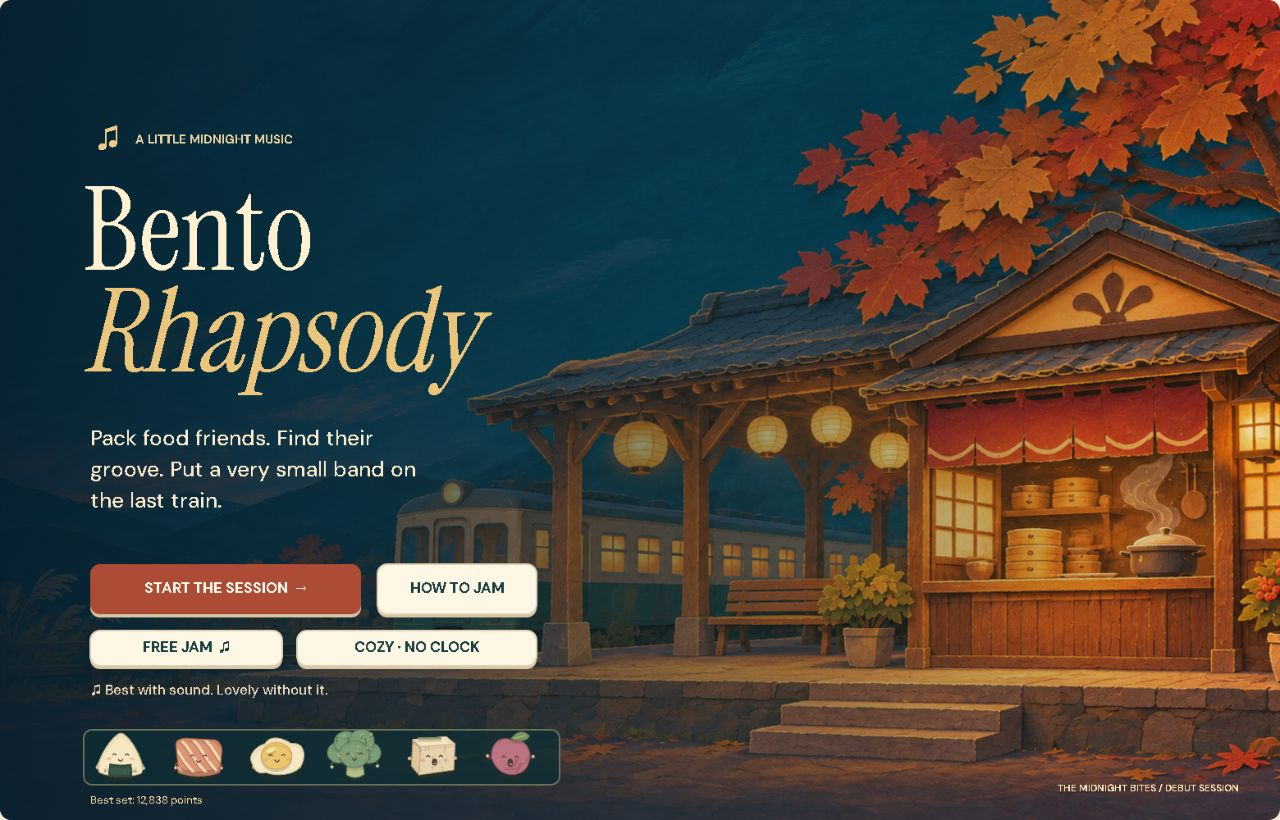
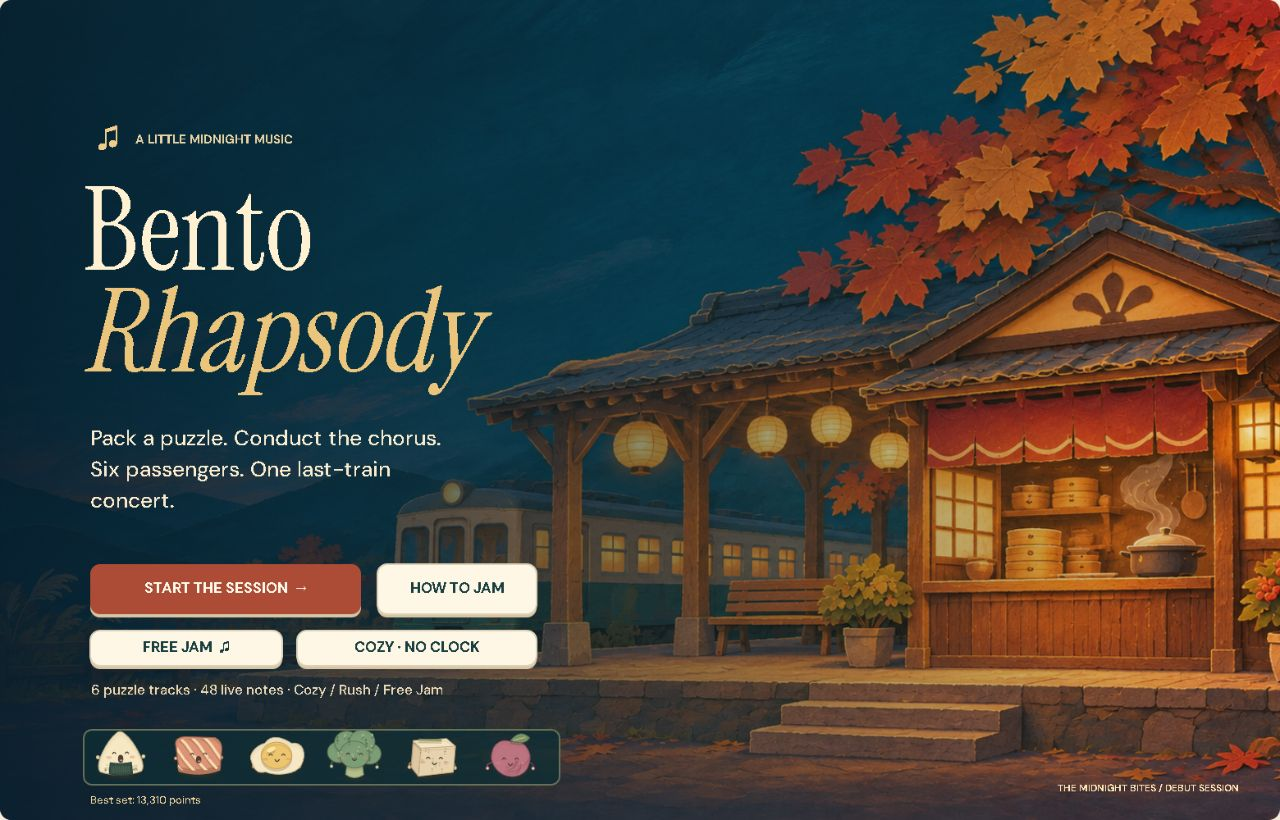
Make each bento a playable rhythm concert with precision and combos

diff --git a/game/game.js b/game/game.js
@@ -62,6 +62,7 @@ function musicStep(plan){
 }
 choir.onStep(musicStep);
 function updateMusic(dt){
+  updateConcert(dt);
   if(!state.paused&&!state.help){if(state.solo){state.solo.life-=dt;if(state.solo.life<=0)state.solo=null;}if(state.reaction){state.reaction.life-=dt;if(state.reaction.life<=0)state.reaction=null;}}
   for(const [id,p]of Object.entries(music.pulses)){p.life-=dt*3;if(p.life<=0)delete music.pulses[id];}
   music.customer=Math.max(0,music.customer-dt*3);
@@ -96,16 +97,16 @@ function evaluate(pieces=state.pieces){
 }
 function burst(x,y,color,n=12){for(let i=0;i<n;i++)particles.push({x,y,vx:Math.cos(i/n*Math.PI*2)*70,vy:Math.sin(i/n*Math.PI*2)*70-35,life:1,color,born:performance.now()});}
 function notify(msg,good=true){toast={text:msg,life:3,good};tone(good?660:170,.14);}
-function remember(){state.history.push(JSON.stringify({pieces:state.pieces,stock:state.stock}));if(state.history.length>35)state.history.shift();}
-function undo(){const prev=state.history.pop();if(prev){Object.assign(state,JSON.parse(prev));state.active=null;saveJam();tone(330);}}
-function startLevel(){const carried=state.mode==='story'&&state.level===5?state.pieces.map(p=>({...p})):[];state.pieces=[];state.stock=Object.fromEntries(foods.map(f=>[f.id,rehearsal().menu.includes(f.id)?3:0]));state.active=null;state.rotation=0;state.history=[];state.solo=null;state.reaction=null;state.timer=recipes[state.level].time;state.screen='play';state.paused=false;state.help=false;resetMusic();if(state.mode==='story'){if(carried.length)for(const p of carried)seedPiece(p.type,p.x,p.y,p.rot);else for(const [type,x,y,rot]of rehearsals[state.level].seed)seedPiece(type,x,y,rot);}}
+function remember(){if(concert?.done)concert=null;state.history.push(JSON.stringify({pieces:state.pieces,stock:state.stock}));if(state.history.length>35)state.history.shift();}
+function undo(){const prev=state.history.pop();if(prev){concert=null;Object.assign(state,JSON.parse(prev));state.active=null;saveJam();tone(330);}}
+function startLevel(){concert=null;const carried=state.mode==='story'&&state.level===5?state.pieces.map(p=>({...p})):[];state.pieces=[];state.stock=Object.fromEntries(foods.map(f=>[f.id,rehearsal().menu.includes(f.id)?3:0]));state.active=null;state.rotation=0;state.history=[];state.solo=null;state.reaction=null;state.timer=recipes[state.level].time;state.screen='play';state.paused=false;state.help=false;resetMusic();if(state.mode==='story'){if(carried.length)for(const p of carried)seedPiece(p.type,p.x,p.y,p.rot);else for(const [type,x,y,rot]of rehearsals[state.level].seed)seedPiece(type,x,y,rot);}}
 function startGame(){state.mode='story';state.tempo=96;choir.setTempo(96);state.level=0;state.score=0;state.lives=3;state.combo=0;state.results=[];state.nextId=1;startLevel();}
 function deliver(){
   if(state.screen!=='play'||state.paused||state.help||state.mode==='jam')return;
   const e=evaluate();if(!e.ready){notify('Check the order, the rival voices and the singing beats.',false);return;}
-  const grade=rating(e),earned=500+e.area*20+e.bonds*110+e.rhythm*100+(state.rush?Math.floor(state.timer)*2:0)+state.combo*100+(grade.stars-1)*250;
+  const grade=rating(e),earned=(concert?.done?concert.bonus:0)+500+e.area*20+e.bonds*110+e.rhythm*100+(state.rush?Math.floor(state.timer)*2:0)+state.combo*100+(grade.stars-1)*250;
   const pattern=currentArrangement().map(p=>({...p,grumpy:false,solo:false}));
-  state.score+=earned;state.combo++;state.results.push({name:recipes[state.level].name,earned,stars:grade.stars,bonds:e.bonds,area:e.area,rhythm:e.rhythm,pattern});state.active=null;state.screen=state.level===5?'encore':'served';music.encore=0;resetMusic();choir.sfx('serve');burst(770,470,'#edb14b',35);
+  state.score+=earned;state.combo++;state.results.push({name:recipes[state.level].name,earned,performance:concert?.done?{hits:concert.hits,perfect:concert.perfect,bonus:concert.bonus,medal:concert.medal}:null,stars:grade.stars,bonds:e.bonds,area:e.area,rhythm:e.rhythm,pattern});state.active=null;state.screen=state.level===5?'encore':'served';music.encore=0;resetMusic();choir.sfx('serve');burst(770,470,'#edb14b',35);
   if(state.score>best){best=state.score;try{localStorage.setItem('bento-rhapsody-best',best);}catch{}}
 }
 function timeout(){state.lives--;state.combo=0;state.active=null;state.screen=state.lives<=0?'gameover':'missed';choir.hush();tone(150,.35);}
@@ -141,7 +142,7 @@ function resultOverlay(){
     foods.forEach((f,i)=>{const pulse=Math.max(0,...Object.values(music.pulses).filter(p=>p.type===f.id).map(p=>p.life));ingredient(f.id,555+i*90,375,75,1,i,true,pulse);});
     text('♪',605,475,42,palette.coral,'center');ctx.save();ctx.translate(780,462);ctx.scale(.56,.56);customer(0,0,r.mood);ctx.restore();text('♫',950,475,42,palette.green,'center');
     text(`${r.customer} joins your chorus.`,780,546,20,palette.green,'center',800);wrap(`“${r.memory}”`,486,589,600,21,palette.ink,26);
-    const last=state.results.at(-1);text(`${'★'.repeat(last.stars||1)}${'☆'.repeat(3-(last.stars||1))}   +${last.earned.toLocaleString('en-US')} points`,780,653,21,'#987037','center',700);
+    const last=state.results.at(-1);if(last.performance)text(`${last.performance.medal} · ${last.performance.hits}/8 notes · ${last.performance.perfect} perfect`,780,682,13,palette.green,'center',700);text(`${'★'.repeat(last.stars||1)}${'☆'.repeat(3-(last.stars||1))}   +${last.earned.toLocaleString('en-US')} points`,780,653,21,'#987037','center',700);
     button('NEXT LISTENER  →',550,702,460,57,()=>{state.level++;startLevel();},'coral');
   }else{ingredient('rice',780,405,145,-1,0);text(state.lives>0?'Departure came before the chorus was ready.':'Three missed orders. The kitchen needs a rest.',780,543,21,palette.muted,'center');text(`Your set: ${state.score.toLocaleString('en-US')} points`,780,600,28,palette.ink,'center',800);button(state.lives>0?'TRY THIS TRACK AGAIN':'START A NEW SET',550,702,460,57,()=>state.lives>0?startLevel():startGame(),'coral');}
   button('Back to the title',630,787,300,38,()=>{state.screen='title';choir.hush();},'light');
@@ -171,7 +172,7 @@ function encoreScreen(){
   face(engine+93,555,138,1,7,music.customer);text('♪',engine+155,370-Math.sin(elapsed*4)*10,43,palette.coral,'center');
   for(let i=0;i<8;i++)text(i%2?'♫':'♪',95+i*180,390-Math.sin(elapsed*2+i)*25,24,'#b29564','center');
   ctx.restore();ctx.fillStyle='#82948b';ctx.fillRect(0,713,W,5);ctx.fillRect(0,730,W,3);
-  text('Every lunchbox found its voice. Every passenger joined in.',780,779,23,palette.ink,'center',700);
+  text(`TOUR COMPLETE · ${state.score.toLocaleString('en-US')} POINTS · ${state.results.reduce((n,r)=>n+(r.performance?.hits||0),0)} / 48 LIVE NOTES`,780,779,23,palette.ink,'center',700);
   beatStrip(553,822,454,new Set([0,1,2,3,4]),29);
   button('PLAY ANOTHER SET',396,890,355,57,startGame,'coral');button('REPLAY THE ENCORE',782,890,355,57,()=>{music.encore=0;resetMusic();},'light');
   text(`6 / 6 songs delivered  ·  ${state.results.reduce((n,r)=>n+(r.stars||1),0)} / 18 encore tickets  ·  Your own arrangements are playing`,780,980,16,palette.muted,'center');
@@ -181,24 +182,25 @@ function guideOverlay(){
   headline('How to conduct your lunch',780,269,48,palette.ink,'center');text('A puzzle you can hear. A song you can rearrange.',780,317,21,palette.muted,'center');
   const rows=[['1  PACK','Choose from the left. Click or drag into the box. R rotates, Z undoes, Delete removes. Cozy has no clock; Rush does. Free Jam saves your own song.'],['2  PAIR','Edges count, corners do not. Friends unlock singing; rivals grumble. Clear the set list to serve. Get every food type singing for a bonus ticket.'],['3  PLAY','Happy players on golden stages earn another ticket. Move up or down for new notes. Press Space to take a solo. Free Jam also lets you change the tempo.']];
   rows.forEach(([title,body],i)=>{const y=386+i*132;rect(365,y-25,830,116,16,i%2?'#f1e7cf':'#f8edd5');text(title,390,y+7,19,palette.coral,'left',800);wrap(body,590,y-2,570,20,palette.ink,27);});
-  text('Match the set list, then SERVE THE SONG. Your six songs become the train\'s final concert.',780,810,17,palette.green,'center',700);
+  text('Match the set list, then PLAY THE CHORUS with A/S/D. Your six songs become the train\'s final concert.',780,810,17,palette.green,'center',700);
   text('Sound is optional. Mouths, syllables and beat lights show the whole score.',780,844,18,palette.muted,'center');
   button('LET\'S JAM  →',580,878,400,38,toggleHelp,'coral');
 }
 function render(){
-  const status=evaluate();canvas.setAttribute('aria-label',`Bento Rhapsody. ${state.mode}. ${state.help?'guide':state.paused?'paused':state.screen}. Order ${state.level+1} of 6. ${status.area} spaces, ${status.bonds} happy duets, ${status.conflicts} rivals, ${status.rhythm} of ${recipes[state.level].beats} singing beats. ${status.ready?'Ready to serve.':''} ${state.sound?'Sound on.':'Sound off.'}`);
+  const status=evaluate();canvas.setAttribute('aria-label',`Bento Rhapsody. ${state.mode}. ${state.help?'guide':state.paused?'paused':state.screen}. Order ${state.level+1} of 6. ${status.area} spaces, ${status.bonds} happy duets, ${status.conflicts} rivals, ${status.rhythm} of ${recipes[state.level].beats} singing beats. ${status.ready?'Ready to serve.':''} ${concert?.active?'Live performance: A/S/D, '+concert.hits+' of 8 notes.':concert?.done?'Performance complete: '+concert.hits+' of 8 notes.':''} ${state.sound?'Sound on.':'Sound off.'}`);
   buttons=[];background();if(state.screen==='title')titleScreen();else if(state.screen==='encore')encoreScreen();else{gameplay();if(['served','missed','gameover'].includes(state.screen))resultOverlay();}
   for(const p of particles){const age=(performance.now()-p.born)/1000;if(age>.8)continue;ctx.globalAlpha=1-age/.8;ctx.fillStyle=p.color;ctx.beginPath();ctx.arc(p.x,p.y,4,0,7);ctx.fill();}ctx.globalAlpha=1;
   if(toast){rect(440,184,680,48,14,toast.good?'#dce9d5':'#f4d0bb');text(toast.text,780,208,18,palette.ink,'center',700);}
   if(state.paused){buttons=[];ctx.fillStyle='#233d40ee';ctx.fillRect(0,173,W,827);rect(500,370,560,260,25,palette.paper);text('A little intermission.',780,433,34,palette.ink,'center',800);button('BACK TO THE JAM',620,500,320,58,()=>setPause(false),'coral');}
   if(state.help)guideOverlay();
+  if(concert?.active&&!state.paused&&!state.help)drawConcert();
 }
 function pos(event){const r=canvas.getBoundingClientRect();return{x:(event.clientX-r.left)*W/r.width,y:(event.clientY-r.top)*H/r.height};}
 canvas.addEventListener('pointerdown',event=>{
   if(event.button===2)return;
   const downPosition=pos(event);pointer={...downPosition,down:true,startX:downPosition.x,startY:downPosition.y};canvas.focus();choir.unlock();canvas.setPointerCapture?.(event.pointerId);
   for(const b of [...buttons].reverse()){if(b.enabled&&pointer.x>=b.x&&pointer.x<=b.x+b.w&&pointer.y>=b.y&&pointer.y<=b.y+b.h){b.action();render();return;}}
-  if(state.screen!=='play'||state.paused||state.help)return;
+  if(state.screen!=='play'||state.paused||state.help||concert?.active)return;
   for(let i=0;i<foods.length;i++){const y=rack.y+i*(rack.h+rack.gap);if(pointer.x>=rack.x&&pointer.x<rack.x+rack.w&&pointer.y>=y&&pointer.y<=y+rack.h){const f=foods[i];if(state.stock[f.id]>0){state.active={type:f.id};state.rotation=0;choir.sing(f.id,choir.pitch(f.id,2),{volume:.16});}render();return;}}
   const x=Math.floor((pointer.x-board.x)/board.cell),y=Math.floor((pointer.y-board.y)/board.cell);
   if(x>=0&&x<5&&y>=0&&y<5){const p=evaluate().grid[y][x];if(state.active){place(x-(state.active.grabX||0),y-(state.active.grabY||0));}else if(p){state.active={type:p.type,id:p.id,grabX:x-p.x,grabY:y-p.y};state.rotation=p.rot;tone(380);}}
@@ -211,12 +213,13 @@ function place(x,y){const a=state.active;if(!a||!valid(a.type,x,y,state.rotation
   render();
 }
 canvas.addEventListener('pointermove',event=>{Object.assign(pointer,pos(event));});
-canvas.addEventListener('pointerup',event=>{const p=pos(event);const moved=Math.hypot(p.x-pointer.startX,p.y-pointer.startY)>8;if(state.screen==='play'&&!state.paused&&!state.help&&state.active&&pointer.down&&moved){const x=Math.floor((p.x-board.x)/board.cell)-(state.active.grabX||0),y=Math.floor((p.y-board.y)/board.cell)-(state.active.grabY||0);if(x>=0&&x<5&&y>=0&&y<5)place(x,y);}pointer.down=false;});
+canvas.addEventListener('pointerup',event=>{const p=pos(event);const moved=Math.hypot(p.x-pointer.startX,p.y-pointer.startY)>8;if(state.screen==='play'&&!concert?.active&&!state.paused&&!state.help&&state.active&&pointer.down&&moved){const x=Math.floor((p.x-board.x)/board.cell)-(state.active.grabX||0),y=Math.floor((p.y-board.y)/board.cell)-(state.active.grabY||0);if(x>=0&&x<5&&y>=0&&y<5)place(x,y);}pointer.down=false;});
 canvas.addEventListener('pointercancel',()=>{pointer.down=false;});
 canvas.addEventListener('contextmenu',event=>{event.preventDefault();if(state.active&&!state.help&&!state.paused)state.rotation=(state.rotation+1)%4;});
 window.addEventListener('keydown',event=>{
   if(['r','R','z','Z','h','H','Escape','Enter','Delete','Backspace',' '].includes(event.key))event.preventDefault();
   if(event.repeat)return;choir.unlock();
+  if(concert?.active){event.preventDefault();if(event.key==='Escape'){setPause(!state.paused);}else concertHit(event.key);render();return;}
   if(event.key.toLowerCase()==='h'){toggleHelp();render();return;}
   if(event.key==='Escape'){if(state.help)toggleHelp();else if(state.active)state.active=null;else if(state.screen==='play')setPause(!state.paused);render();return;}
   if(state.help)return;
@@ -224,12 +227,12 @@ window.addEventListener('keydown',event=>{
   if(state.screen!=='play'||state.paused)return;
   if(event.key===' '){spotlight();render();return;}
   if(event.key.toLowerCase()==='r'&&state.active){state.rotation=(state.rotation+1)%4;state.active.grabX=0;state.active.grabY=0;tone(420);}
-  if(event.key.toLowerCase()==='z')undo();if(event.key==='Enter')deliver();if(event.key==='Delete'||event.key==='Backspace')removeSelected();
+  if(event.key.toLowerCase()==='z')undo();if(event.key==='Enter')performOrServe();if(event.key==='Delete'||event.key==='Backspace')removeSelected();
   render();
 });
 let last=performance.now();
 function frame(now){const dt=Math.min((now-last)/1000,.05);last=now;elapsed+=dt;
-  if(state.screen==='play'&&state.mode==='story'&&state.rush&&!state.paused&&!state.help){state.timer-=dt;if(state.timer<=0){state.timer=0;timeout();}}
+  if(state.screen==='play'&&!concert?.active&&state.mode==='story'&&state.rush&&!state.paused&&!state.help){state.timer-=dt;if(state.timer<=0){state.timer=0;timeout();}}
   particles.forEach(p=>{p.life-=dt*1.3;p.x+=p.vx*dt;p.y+=p.vy*dt;p.vy+=50*dt;});particles=particles.filter(p=>p.life>0);if(toast){toast.life-=dt;if(toast.life<0)toast=null;}
   render();requestAnimationFrame(frame);
 }

diff --git a/game/conductor.js b/game/conductor.js
@@ -1,0 +1,69 @@
+'use strict';
+// The packed arrangement becomes an eight-note call-and-response performance.
+let concert=null;
+const stageKeys=['a','s','d'];
+const voiceLane=type=>['rice','salmon'].includes(type)?0:['egg','broccoli'].includes(type)?1:2;
+function performOrServe(){
+  if(state.screen!=='play'||state.paused||state.help||!evaluate().ready)return;
+  if(concert?.done){deliver();return;}
+  const singers=currentArrangement().filter(p=>p.singing).sort((a,b)=>a.x-b.x||a.y-b.y);
+  if(!singers.length)return;
+  const beat=60/choir.bpm;
+  concert={active:true,done:false,time:0,beat,notes:Array.from({length:8},(_,i)=>{const p=singers[i%singers.length];return {at:beat*(3+i),lane:voiceLane(p.type),type:p.type,row:p.y,hit:false,miss:false};}),hits:0,perfect:0,combo:0,bestCombo:0,feedback:'Listen to the count-in. Then answer!',flash:0};
+  state.active=null;state.solo=null;resetMusic();
+}
+function concertHit(key){
+  if(!concert?.active||state.paused||state.help)return;
+  const lane=stageKeys.indexOf(key.toLowerCase());if(lane<0)return;
+  const window=state.rush?.18:.25;
+  const note=concert.notes.filter(n=>!n.hit&&!n.miss&&n.lane===lane).sort((a,b)=>Math.abs(a.at-concert.time)-Math.abs(b.at-concert.time))[0];
+  concert.flash=.22;
+  if(note&&Math.abs(note.at-concert.time)<=window){
+    const perfect=Math.abs(note.at-concert.time)<=.11;note.hit=true;concert.hits++;concert.perfect+=Number(perfect);concert.combo++;concert.bestCombo=Math.max(concert.bestCombo,concert.combo);concert.feedback=perfect?'PERFECT!':'IN THE GROOVE';
+    state.solo={type:note.type,life:.45};choir.sing(note.type,choir.pitch(note.type,note.row),{duration:.28,volume:.19});burst(530,440+lane*104,byFood[note.type].color,12);
+  }else{concert.combo=0;concert.feedback='Listen, then answer on the ring.';choir.sfx('rotate');}
+}
+function updateConcert(dt){
+  if(!concert?.active||state.paused||state.help)return;
+  concert.time+=dt;concert.flash=Math.max(0,concert.flash-dt);
+  for(const n of concert.notes)if(!n.called&&concert.time>=n.at-concert.beat){n.called=true;choir.sing(n.type,choir.pitch(n.type,n.row),{duration:.18,volume:.09});}
+  for(const n of concert.notes)if(!n.hit&&!n.miss&&concert.time>n.at+.25){n.miss=true;concert.combo=0;concert.feedback='Keep going. The next note is yours.';}
+  if(concert.time>concert.notes.at(-1).at+.6){
+    concert.active=false;concert.done=true;concert.bonus=concert.hits*100+concert.perfect*75+concert.bestCombo*25;
+    concert.medal=concert.hits===8?'STANDING OVATION':concert.hits>=5?'IN THE GROOVE':'FIRST REHEARSAL';
+    notify(`${concert.medal} · ${concert.hits}/8 notes · +${concert.bonus} performance bonus`);
+  }
+}
+function drawConcert(){
+  if(!concert?.active)return;
+  buttons=[];ctx.fillStyle='#09272eea';ctx.fillRect(20,240,1520,738);rect(268,270,1024,662,22,'#103d43','#c9aa68');
+  text('PACK IT. HEAR IT. PLAY IT.',780,309,14,'#e6c37d','center',800);headline('Conduct your edible chorus',780,357,51,'#fff0cb','center');
+  text('Your food placement wrote these notes. Answer as each note reaches the ring.',780,397,17,'#cbd8c2','center');
+  const names=['BASS & BRASS','PIANO & BRUSHES','GUITAR & VIBES'];
+  for(let lane=0;lane<3;lane++){
+    const y=468+lane*104;rect(310,y-37,940,78,12,lane%2?'#20525a':'#17464e');
+    text(stageKeys[lane].toUpperCase(),352,y,30,'#ffe7a5','center',800);text(names[lane],408,y-23,11,'#c0d0bf','left',700);
+    ctx.strokeStyle='#96b5a15c';ctx.lineWidth=2;ctx.beginPath();ctx.moveTo(450,y);ctx.lineTo(1220,y);ctx.stroke();
+    ctx.strokeStyle=concert.flash?'#fff0a7':'#edc37b';ctx.lineWidth=4;ctx.beginPath();ctx.arc(530,y,29,0,Math.PI*2);ctx.stroke();
+    button(stageKeys[lane].toUpperCase()+' · TAP',310,y+17,104,24,()=>concertHit(stageKeys[lane]),'light');
+    ctx.save();ctx.beginPath();ctx.rect(451,y-35,770,70);ctx.clip();
+    for(const n of concert.notes){if(n.lane!==lane||n.hit)continue;const x=530+(n.at-concert.time)*230;if(x<460||x>1220)continue;ingredient(n.type,x,y,53,n.miss?-1:1,n.row,true,.45);text('♪',x,y-28,15,'#f8d58d','center');}
+    ctx.restore();
+  }
+  const count=concert.time<concert.beat*3?`${Math.max(1,Math.ceil(3-concert.time/concert.beat))} · COUNT IN`:concert.feedback;
+  text(count,780,789,23,'#ffe4a1','center',800);text(`${concert.hits} / 8 NOTES     ·     COMBO ×${concert.combo}     ·     ${choir.bpm} BPM`,780,827,17,'#d3dfc9','center',700);
+  button('SERVE WITHOUT THE BONUS',544,864,472,38,()=>{concert=null;deliver();},'light');
+}
+function drawPerformanceCard(){
+  if(state.mode==='jam')return;
+  const x=350;rect(x,380,106,475,10,'#143d43');text('LIVE',x+53,405,13,'#e9c77e','center',800);text('SCORE',x+53,425,11,'#c8d5c3','center',700);
+  const e=evaluate();
+  for(let lane=0;lane<3;lane++){
+    const y=477+lane*107;const members=state.pieces.filter(p=>voiceLane(p.type)===lane&&e.singers.has(p.id));
+    rect(x+12,y-18,82,57,8,members.length?'#4c7869':'#294c51');text(stageKeys[lane].toUpperCase(),x+53,y,21,members.length?'#ffe2a1':'#91a7a0','center',800);
+    text(members.length?'♪ READY':'REST',x+53,y+51,10,'#ccd6bd','center',700);
+  }
+  text(concert?.done?`${concert.hits}/8`:'8 NOTES',x+53,797,16,'#ffe1a1','center',800);text(concert?.done?'RECORDED':'TO PLAY',x+53,823,10,'#c9d6bc','center',700);
+}
+
+function retryConcert(){if(state.screen!=='play'||state.mode==='jam'||state.paused||state.help)return;concert=null;performOrServe();}

diff --git a/game/presentation.js b/game/presentation.js
@@ -50,7 +50,7 @@ function liveArrangement(e){
   const x=347,y=924,w=751,active=new Set(state.pieces.map(p=>p.type));rect(x,y,w,47,8,'#e8eddb','#cbd3b5');
   text('♫',367,y+23,23,palette.green,'center');text('Live arrangement',390,y+16,14,palette.ink,'left',700);
   text(state.solo?`${byFood[state.solo.type].nick} is taking a solo!`:`${active.size} layers · ${e.singers.size} singing · ${choir.bpm} BPM · ${music.chord}`,390,y+34,11,palette.muted);
-  button('SOLO · SPACE',747,y+8,153,28,spotlight,'light',state.pieces.length>0);
+  button(concert?.done?'RETRY A/S/D':'SOLO · SPACE',747,y+8,153,28,concert?.done?retryConcert:spotlight,'light',state.pieces.length>0);
   for(let i=0;i<20;i++){const h=4+music.meter*17*(.4+.6*Math.abs(Math.sin(elapsed*4+i*2)));rect(x+w-155+i*6.4,y+24-h/2,3,h,2,active.size?'#729a79':'#bcc4ae');}
 }
 function gameplay(){
@@ -61,7 +61,7 @@ function gameplay(){
   drawPantry();text('YOUR COMPOSITION',353,281,12,'#895e42','left',800);headline('The band\'s lunchbox',353,313,39);text(state.mode==='jam'?`${e.area} / 25 spaces`:`${e.area} / ${r.cells} packed`,1101,311,13,palette.muted,'right');
   beatStrip(board.x,328,495,e.beatSet,15);window.BentoArt.tray(ctx,board.x,board.y,board.cell);
   state.pieces.forEach(p=>drawPiece(p,e.moods[p.id]||0,state.active?.id===p.id?.7:1));
-  drawStageFeatures(e);
+  drawStageFeatures(e);drawPerformanceCard();
   if(!state.pieces.length&&!rehearsal().blocked.length){headline('Your first little song',722,577,35,'#e5d5ac','center');text('Choose a food and give it a place.',722,616,16,'#bbcab0','center');text('Friends bring out the voice.',722,646,14,'#a4b8a3','center');}
   if(music.beat>=0){ctx.fillStyle='#f0d29714';ctx.fillRect(board.x+music.beat*99,board.y,99,495);ctx.fillStyle='#e6bd70';ctx.fillRect(board.x+music.beat*99+7,board.y+491,85,2);}
   if(state.active&&pointer.x>board.x-12&&pointer.x<board.x+510&&pointer.y>board.y-12&&pointer.y<board.y+510){
@@ -84,7 +84,7 @@ function gameplay(){
   const grade=rating(e);text(`ENCORE TICKETS  ${'★'.repeat(grade.stars)}${'☆'.repeat(3-grade.stars)}`,1168,789,13,'#927244','left',750);text(`+1 every voice · +1 gold stages (${grade.lit}/${grade.spotGoal})`,1168,810,11,palette.muted);
   const fraction=state.timer/r.time;rect(1168,829,327,7,4,'#e8dec8');rect(1168,829,state.rush?Math.max(0,327*fraction):327,7,4,fraction<.25&&state.rush?palette.coral:'#729471');
   text(state.rush?`${Math.ceil(state.timer)}s to departure`:'Cozy set · take your time',1168,855,13,palette.muted);text(`COMBO ×${state.combo+1}`,1495,855,12,palette.coral,'right',750);
-  button(e.ready?'SERVE THE SONG  →':'BUILD YOUR CHORUS',1168,891,327,50,deliver,'coral',e.ready);text('A meal worth an encore.',1332,958,13,palette.muted,'center');
+  button(e.ready?(concert?.done?'SERVE THE SONG  →':'PLAY THE CHORUS  →'):'BUILD YOUR CHORUS',1168,891,327,50,performOrServe,'coral',e.ready);text(concert?.done?`${concert.medal} · +${concert.bonus} pts`:'PACK → PAIR → PLAY A/S/D → SERVE',1332,958,12,palette.muted,'center');
   text('CLICK / DRAG TO PACK   ·   R ROTATE   ·   Z UNDO   ·   SPACE SOLO   ·   H GUIDE   ·   ESC PAUSE',780,992,11,palette.muted,'center');
 }
 function removeSelected(){if(state.active?.id){remember();const p=state.pieces.find(p=>p.id===state.active.id);state.pieces=state.pieces.filter(q=>q.id!==p.id);state.stock[p.type]++;state.active=null;saveJam();}}
@@ -103,10 +103,10 @@ function titleScreen(){
   stationBackdrop(0,0,W,H);
   text('♫',132,171,38,'#edcd89','center');text('A LITTLE MIDNIGHT MUSIC',165,171,15,'#e9d1a2','left',700);
   headline('Bento',101,292,142,'#fff1d1');headline('Rhapsody',100,416,142,'#ecc57c','left',true);
-  wrap('Pack food friends. Find their groove. Put a very small band on the last train.',110,536,435,26,'#f9ebce',38);
+  wrap('Pack a puzzle. Conduct the chorus. Six passengers. One last-train concert.',110,536,435,26,'#f9ebce',38);
   button('START THE SESSION  →',110,688,330,61,startGame,'coral');button('HOW TO JAM',460,688,194,61,toggleHelp,'light');
   button('FREE JAM  ♫',110,769,234,43,startJam,'light');button(state.rush?'RUSH · WITH A CLOCK':'COZY · NO CLOCK',362,769,292,43,()=>{state.rush=!state.rush;},'light');
-  text('♫ Best with sound. Lovely without it.',111,843,17,'#e9d7b7');
+  text('6 puzzle tracks · 48 live notes · Cozy / Rush / Free Jam',111,843,17,'#e9d7b7');
   rect(102,890,580,67,10,'#0e2d33c9','#66715a');
   foods.forEach((f,i)=>ingredient(f.id,147+i*95,923,71,1,i,true,Math.max(0,Math.sin(elapsed*2-i))*.6));
   text('THE MIDNIGHT BITES / DEBUT SESSION',1510,962,12,'#ffe6b7','right',700);

diff --git a/game/index.html b/game/index.html
@@ -2,4 +2,4 @@
 <html lang="en"><head><meta charset="utf-8"><meta name="viewport" content="width=device-width,initial-scale=1"><meta name="description" content="Bento Rhapsody: pack a lunchbox, compose an edible choir, and put a band on the last train."><title>Bento Rhapsody</title><style>
 @font-face{font-family:'DM Sans';src:url('assets/dm-sans.woff2')}@font-face{font-family:'Instrument Serif';src:url('assets/instrument-serif.woff2')}
 *{box-sizing:border-box}html,body{margin:0;width:100%;height:100%;overflow:hidden;background:#102f36}body{display:flex;align-items:center;justify-content:center}canvas{display:block;width:min(100vw,156vh);height:auto;max-height:100vh;aspect-ratio:1560/1000;touch-action:none;outline:none}
-</style></head><body><canvas id="game" width="1560" height="1000" tabindex="0" aria-label="Bento Rhapsody. Pack food friends into a musical lunchbox. R rotates, Z undoes, Space solos, H opens the guide, Escape pauses."></canvas><script src="ensemble.js"></script><script src="paper-art.js"></script><script src="remix.js"></script><script src="presentation.js"></script><script src="game.js"></script></body></html>
+</style></head><body><canvas id="game" width="1560" height="1000" tabindex="0" aria-label="Bento Rhapsody. Pack food friends into a musical lunchbox. R rotates, Z undoes, Space solos, H opens the guide, Escape pauses."></canvas><script src="ensemble.js"></script><script src="paper-art.js"></script><script src="remix.js"></script><script src="presentation.js"></script><script src="conductor.js"></script><script src="game.js"></script></body></html>

diff --git a/LIVE-PERFORMANCE.md b/LIVE-PERFORMANCE.md
@@ -1,0 +1,7 @@
+# Live performance edition
+
+The player's packed, happy singers determine the notes and voices of a short call-and-response performance after each puzzle. Three A/S/D lanes group bass/brass, piano/brushes and guitar/vibes. The food calls its note a beat before the response. Hit windows, perfect judgments, combos and missed notes produce a bounded bonus, awarded only once when serving. Retrying replaces that performance; editing or undoing a layout invalidates it. The player can skip without losing campaign progress. Rush's departure clock stops during the performance, and Escape pauses the concert itself.
+
+The six-stage simulated input test completed all 48 notes and verified the bonuses in the saved results. Existing packing, rotation, rescue, tea-seat, Cozy/Rush and Free Jam checks passed. The actual browser campaign reached the encore with 18/18 puzzle tickets; real timed key presses hit 8/8 notes on the first performance, and a fifth-stage retry hit four consecutive perfect notes before its screenshot was captured. Other performances were skipped to verify that route. The browser console captured no warnings or errors. All four submission screenshots were refreshed from the running game. The new music interface is in conductor.js; the existing original score and artwork remain in their dedicated files.
+
+The earlier entry received an 82.5595% provisional expected score against reference games. These improvements have not been assigned a new score by this document. Match-by-match explanations were not available before the deadline; the changes address demonstrated gameplay and the published rubric, without claiming they are the judge's requested fixes.

diff --git a/README.md b/README.md
@@ -1,5 +1,7 @@
 # Bento Rhapsody
 
+Pack → pair → perform → serve: each completed arrangement becomes an eight-note call-and-response concert. Play A/S/D or tap the lane buttons, follow the food notes into the rings, build a combo and earn a precision bonus. Retry the performance before serving, or skip it for a relaxed puzzle session. Repacking the box resets its recorded performance. Six puzzle tracks become the final train concert, with your score and live-note total.
+
 [![make.fun bounty](https://make.fun/badge/best-game-01.svg)](https://make.fun/bounty/best-game-01)
 [![Rank](https://make.fun/badge/best-game-01/dlb93la/bento-rhapsody/rank.svg)](https://make.fun/bounty/best-game-01)
 [![Reward](https://make.fun/badge/best-game-01/dlb93la/bento-rhapsody/reward.svg)](https://make.fun/bounty/best-game-01)
